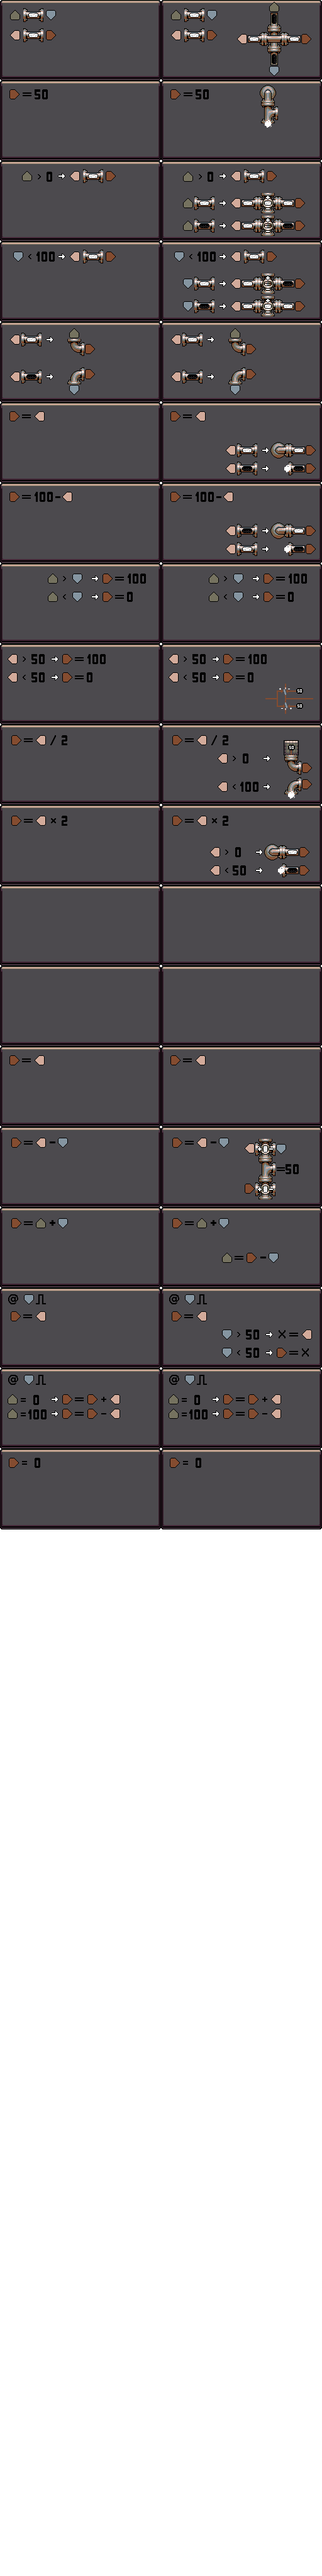
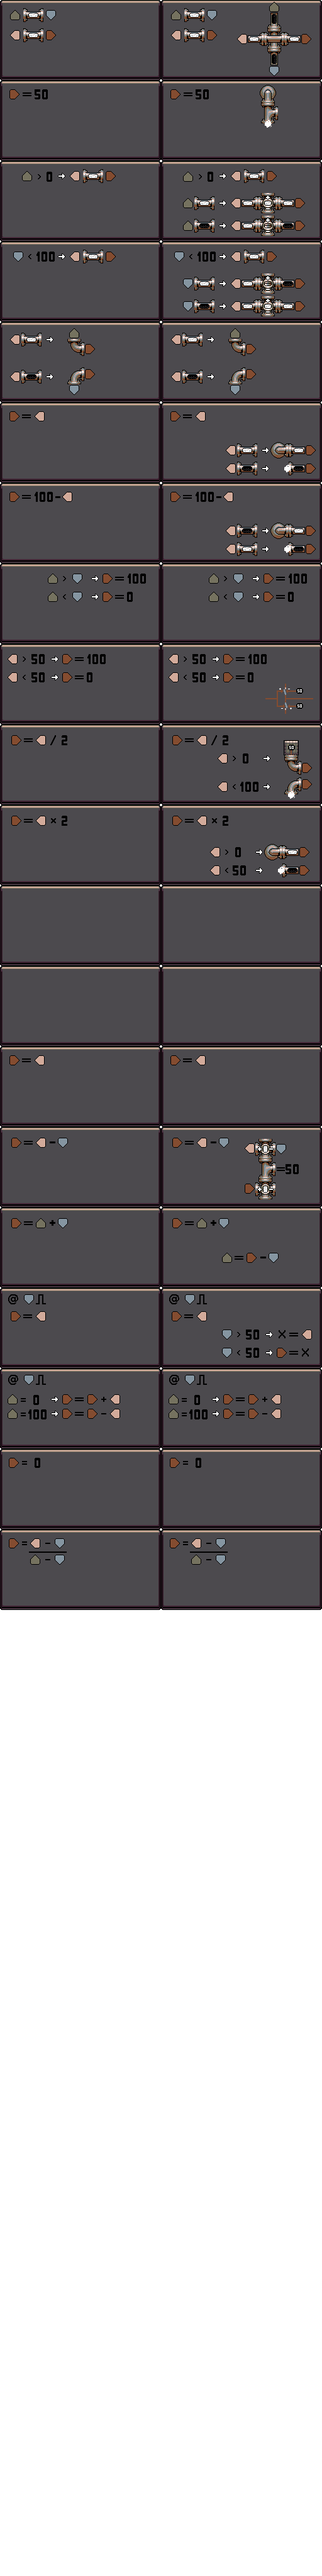
Zoom, latch2, latch5

Changed region(s): [[0.0, 0.5938, 1.0, 0.625]]

diff --git a/Level.cpp b/Level.cpp
@@ -625,7 +625,6 @@ void Level::init_tests(SaveObjectMap* omap)
             level_version = 11;
             substep_count = 20000;
             circuit->force_element(XYPos(3,4), new CircuitElementSubCircuit(DIRECTION_N, 7));
-
             circuit->force_element(XYPos(4,5), new CircuitElementSubCircuit(DIRECTION_S, 11));
 
             NEW_TEST;// N   E   S   W
@@ -655,8 +654,6 @@ void Level::init_tests(SaveObjectMap* omap)
             NEW_TEST;
             NEW_POINT(  0, 90,  0, 94);
             NEW_POINT(  0, 95,  0, 97);
-
-
             break;
 
         case 13:                                                                 // Sensor
@@ -942,89 +939,129 @@ void Level::init_tests(SaveObjectMap* omap)
             NEW_POINT_F(  0,  0,  0,100,  0,  0,  0, 50);
             break;
 
-        case 19:                                                    // end
+        case 19:                                                    // zoom
+            name = "Zoom";
+            connection_mask = CONMASK_N | CONMASK_W | CONMASK_S | CONMASK_E;
+            NEW_TEST;// N   E   S   W
+            NEW_POINT(100,  0,  0,  0);
+            NEW_POINT(100,  0,  0,  0);
+            NEW_TEST;
+            NEW_POINT(100,  0,  0,  0);
+            NEW_POINT(100, 50,  0, 50);
+            NEW_TEST;
+            NEW_POINT(100, 50,  0, 50);
+            NEW_POINT(100,100,  0,100);
+            NEW_TEST;
+            NEW_POINT(100,100,  0,100);
+            NEW_POINT( 50, 50,  0, 25);
+            NEW_TEST;
+            NEW_POINT( 50, 50,  0, 25);
+            NEW_POINT( 50, 20,  0, 10);
+            NEW_TEST;
+            NEW_POINT( 50, 20,  0, 10);
+            NEW_POINT( 50, 80,  0, 40);
+            NEW_TEST;
+            NEW_POINT( 50, 80,  0, 40);
+            NEW_POINT(100, 60, 50, 80);
+            NEW_TEST;
+            NEW_POINT(100, 60, 50, 80);
+            NEW_POINT( 60, 75, 20, 50);
+            NEW_TEST;
+            NEW_POINT( 60, 75, 20, 50);
+            NEW_POINT( 60, 50, 40, 50);
+            NEW_TEST;
+            NEW_POINT( 60, 50, 40, 50);
+            NEW_POINT( 60,  0, 40, 40);
+            NEW_TEST;
+            NEW_POINT( 60,  0, 40, 40);
+            NEW_POINT( 60,100, 40, 60);
+            break;
+
+        case 20:                                                    // Latch2
+            name = "Latch2";
+            connection_mask = CONMASK_N | CONMASK_W | CONMASK_S | CONMASK_E;
+            NEW_TEST;// N   E   S   W
+            NEW_POINT( 25,  0,  0,  0);
+            NEW_POINT( 25,  0,100,  0);
+            NEW_POINT( 25,  0,  0,  0);
+            NEW_TEST;
+            NEW_POINT( 25,  0,  0, 80);
+            NEW_TEST;
+            NEW_POINT( 25,  0,  0, 80);
+            NEW_POINT( 25,  0,100, 80);
+            NEW_POINT( 25, 80,  0, 80);
+            NEW_POINT( 25, 80,  0, 30);
+            NEW_TEST;
+            NEW_POINT( 75,  0,  0, 30);
+            NEW_POINT( 75,  0,100, 30);
+            NEW_POINT( 75, 30,  0, 30);
+            NEW_TEST;
+            NEW_POINT( 75, 30,  0, 60);
+            NEW_TEST;
+            NEW_POINT( 25, 80,  0, 60);
+            NEW_TEST;
+            NEW_POINT( 75, 30,  0, 60);
+            NEW_TEST;
+            NEW_POINT( 75, 30,  0, 60);
+            NEW_POINT( 75, 30,100, 60);
+            NEW_POINT( 75, 60,  0, 60);
+            NEW_POINT( 75, 60,  0, 10);
+            break;
+
+        case 21:                                                    // Latch5
+            name = "Latch5";
+            connection_mask = CONMASK_N | CONMASK_W | CONMASK_S | CONMASK_E;
+            NEW_TEST;// N   E   S   W
+            NEW_POINT( 10,  0,  0,  0);
+            NEW_POINT( 10,  0,100,  0);
+            NEW_POINT( 10,  0,  0,  0);
+            NEW_TEST;
+            NEW_POINT( 10,  0,  0, 80);
+            NEW_TEST;
+            NEW_POINT( 10,  0,  0, 80);
+            NEW_POINT( 10,  0,100, 80);
+            NEW_POINT( 10, 80,  0, 80);
+            NEW_POINT( 10, 80,  0, 30);
+            NEW_TEST;
+            NEW_POINT( 30,  0,  0, 30);
+            NEW_POINT( 30,  0,100, 30);
+            NEW_POINT( 30, 30,  0, 30);
+            NEW_TEST;
+            NEW_POINT( 10, 80,  0, 60);
+            NEW_TEST;
+            NEW_POINT( 30, 30,  0, 60);
+            NEW_TEST;
+            NEW_POINT( 50,  0,  0, 40);
+            NEW_POINT( 50,  0,100, 40);
+            NEW_POINT( 50, 40,  0, 40);
+            NEW_POINT( 30, 30,  0, 10);
+            NEW_TEST;
+            NEW_POINT( 50, 40,  0, 80);
+            NEW_TEST;
+            NEW_POINT( 70,  0,  0, 20);
+            NEW_POINT( 70,  0,100, 20);
+            NEW_POINT( 70, 20,  0, 40);
+            NEW_TEST;
+            NEW_POINT( 90,  0,  0, 40);
+            NEW_POINT( 90,  0,100, 40);
+            NEW_POINT( 90, 40,  0, 80);
+            NEW_TEST;
+            NEW_POINT( 70, 20,  0, 20);
+            NEW_TEST;
+            NEW_POINT( 70,  0,  0, 60);
+            NEW_POINT( 70,  0,100, 60);
+            NEW_POINT( 70, 60,  0, 10);
+            NEW_TEST;
+            NEW_POINT( 90, 40,  0, 10);
+            break;
+
+        case 22:                                                    // end
             name = "Not yet done...";
             connection_mask = CONMASK_W | CONMASK_E;
             NEW_TEST;// N   E   S   W
-            NEW_POINT(  0,  0,  0, 77);
+            NEW_POINT(  77,  77,  77, 77);
             break;
 
-//         case 10:                                                             // amp inv
-//             connection_mask = CONMASK_W | CONMASK_E;
-// 
-//             NEW_TEST;// N   E   S   W
-//             NEW_POINT(  0,  0,  0,  0);
-//             NEW_POINT(  0,  0,  0,100);
-//             NEW_TEST;
-//             NEW_POINT(  0,  0,  0,100);
-//             NEW_POINT(  0,100,  0, 10);
-//             NEW_TEST;
-//             NEW_POINT(  0,100,  0, 10);
-//             NEW_POINT(  0,  0,  0, 90);
-//             NEW_TEST;
-//             NEW_POINT(  0,  0,  0, 90);
-//             NEW_POINT(  0,100,  0, 20);
-//             NEW_TEST;
-//             NEW_POINT(  0,100,  0, 20);
-//             NEW_POINT(  0,  0,  0, 80);
-//             NEW_TEST;
-//             NEW_POINT(  0,  0,  0, 80);
-//             NEW_POINT(  0,100,  0, 30);
-//             NEW_TEST;
-//             NEW_POINT(  0,100,  0, 30);
-//             NEW_POINT(  0,  0,  0, 70);
-//             NEW_TEST;
-//             NEW_POINT(  0,  0,  0, 70);
-//             NEW_POINT(  0,100,  0, 40);
-//             NEW_TEST;
-//             NEW_POINT(  0,100,  0, 40);
-//             NEW_POINT(  0,  0,  0, 60);
-//             break;
-// 
-// 
-// 
-//         case 12:                                                    // zoom amplify
-//             substep_count = 30000;
-//             connection_mask = CONMASK_N | CONMASK_W | CONMASK_E | CONMASK_S;
-// 
-//             NEW_TEST;// N   E   S   W
-//             NEW_POINT(100,  0,  0,  0);
-//             NEW_POINT(100,  0,  0,  0);
-//             NEW_TEST;
-//             NEW_POINT(100,  0,  0,  0);
-//             NEW_POINT(100,100,  0,100);
-//             NEW_TEST;
-//             NEW_POINT(100,100,  0,100);
-//             NEW_POINT(100,  0, 50, 50);
-//             NEW_TEST;
-//             NEW_POINT(100,  0, 50, 50);
-//             NEW_POINT( 90,100, 50, 80);
-//             NEW_TEST;
-//             NEW_POINT( 90,100, 50, 80);
-//             NEW_POINT( 90,  0, 50, 60);
-//             NEW_TEST;
-//             NEW_POINT( 90,  0, 50, 60);
-//             NEW_POINT( 80,100, 20, 60);
-//             NEW_TEST;
-//             NEW_POINT( 80,100, 20, 60);
-//             NEW_POINT( 80,  0, 20, 40);
-//             NEW_TEST;
-//             NEW_POINT( 80,  0, 20, 40);
-//             NEW_POINT( 80,100, 30, 60);
-//             NEW_TEST;
-//             NEW_POINT( 80,100, 30, 60);
-//             NEW_POINT(100,  0,  0, 45);
-//             NEW_TEST;
-//             NEW_POINT(100,  0,  0, 45);
-//             NEW_POINT(100,100,  0, 55);
-//             NEW_TEST;
-//             NEW_POINT(100,100,  0, 55);
-//             NEW_POINT( 60,100, 45, 55);
-//             NEW_TEST;
-//             NEW_POINT( 60,100, 45, 55);
-//             NEW_POINT( 60,  0, 45, 50);
-//             break;
-// 
         default:
             printf("no level %d\n", level_index);
             break;
@@ -1041,13 +1078,18 @@ void Level::init_tests(SaveObjectMap* omap)
 
 void Level::reset(LevelSet* level_set)
 {
+    circuit->elaborate(level_set);
+    reset();
+}
+
+void Level::reset()
+{
     test_index = 0;
     sim_point_index = 0;
     substep_index = 0;
     touched = false;
     current_simpoint = tests[test_index].sim_points[sim_point_index];
 
-    circuit->elaborate(level_set);
     circuit->reset();
     for (int i = 0; i < 4; i++)
         ports[i] = 0;
@@ -1112,9 +1154,7 @@ void Level::advance(unsigned ticks)
                         {
                             if (!touched)
                                 update_score(true);
-                            test_index = 0;
-                            circuit->reset();
-                            touched = false;
+                            reset();
                         }
                     }
                 }

diff --git a/ComPressureServer.cpp b/ComPressureServer.cpp
@@ -422,7 +422,7 @@ public:
                         omap->save(outfile);
 
                         std::ostringstream stream;
-                        omap->get_item("content")->get_map()->get_item("levels")->save(stream);
+                        omap->get_item("content")->save(stream);
                         std::string comp = compress_string(stream.str());
                         std::u32string s32;
                         std::string reply;

diff --git a/Level.h b/Level.h
@@ -6,7 +6,7 @@
 #include <stdlib.h>
 
 
-#define LEVEL_COUNT 20
+#define LEVEL_COUNT 22
 #define HISTORY_POINT_COUNT 200
 
 
@@ -136,6 +136,7 @@ public:
 
     void init_tests(SaveObjectMap* omap = NULL);
     void reset(LevelSet* level_set);
+    void reset();
     void advance(unsigned ticks);
     void select_test(unsigned t);
 
